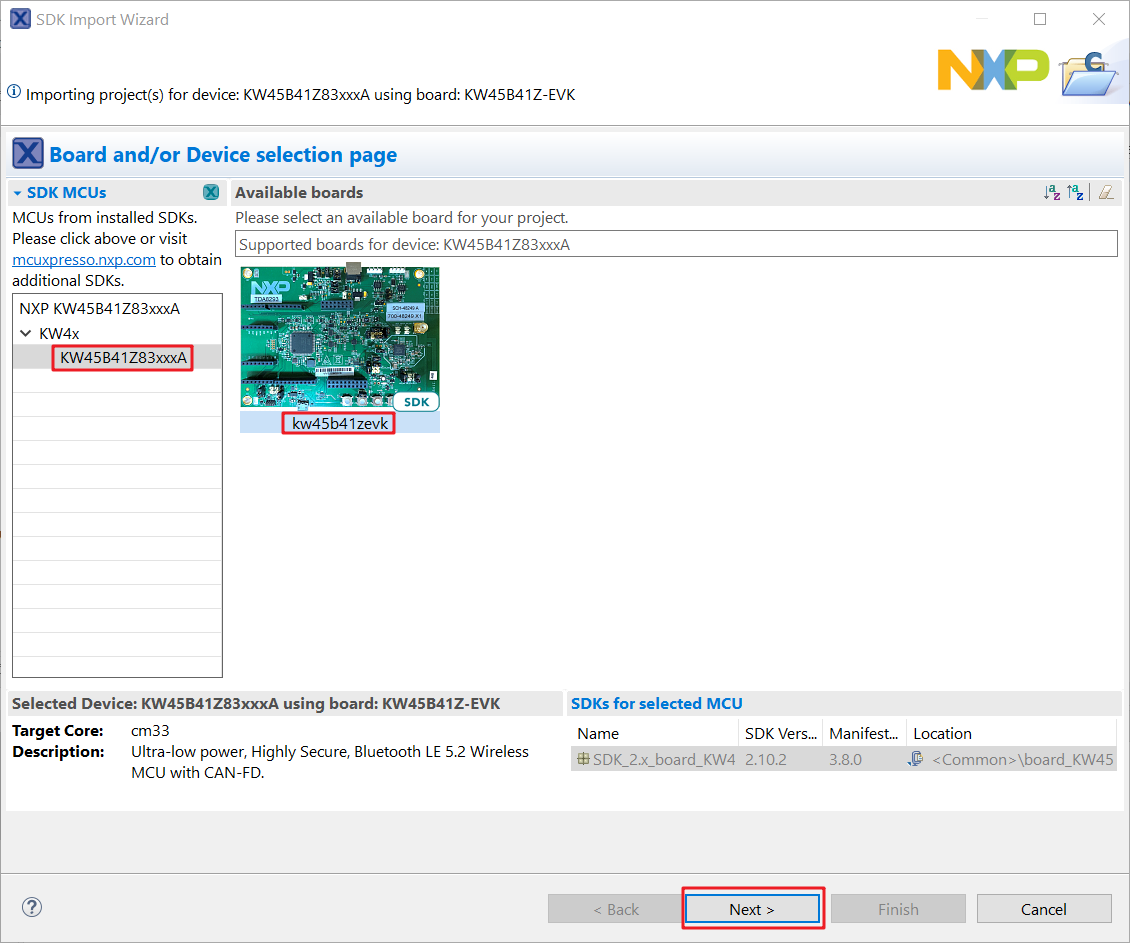
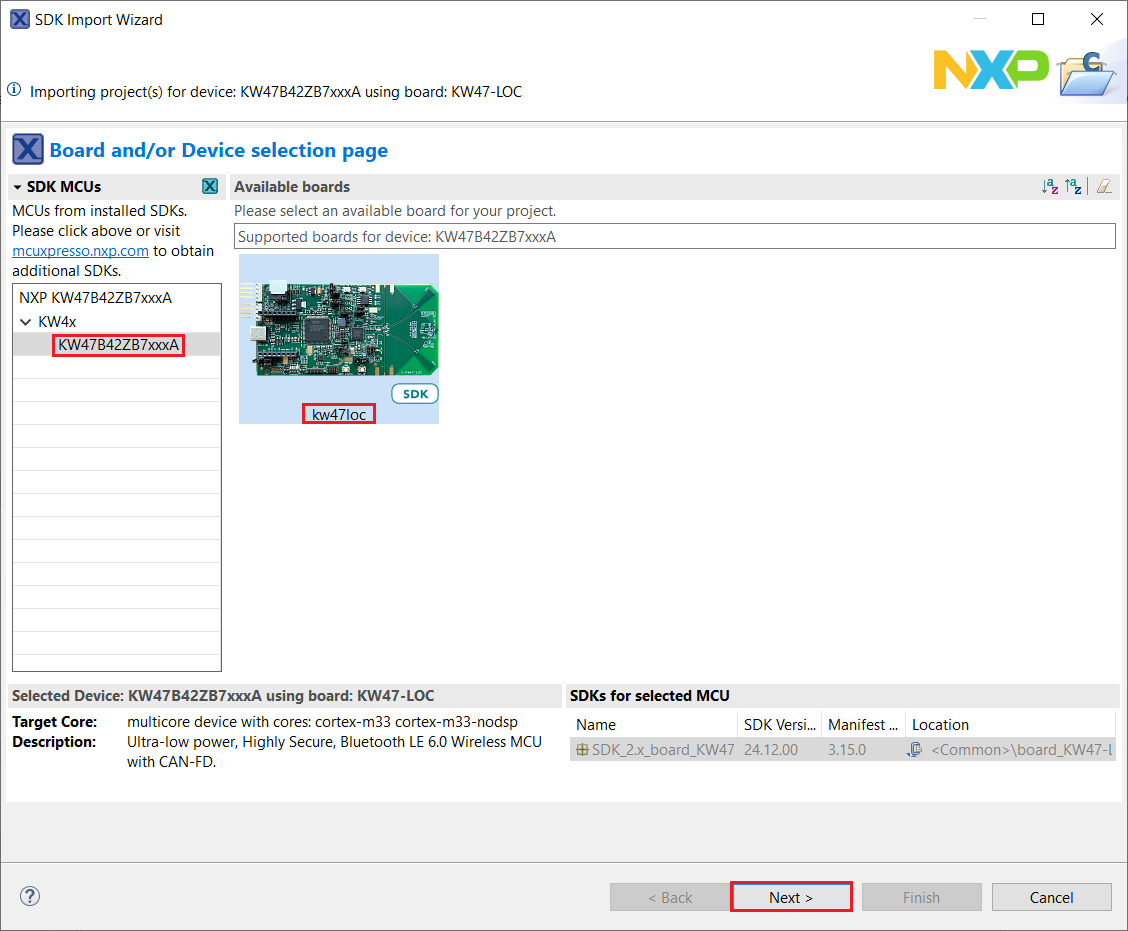
[MCUX-75004] Update the release notes and getting stated for connectivity boards
- Update the develpment tools version
- Update the SDK release version
- Update the pictures in the getting started

diff --git a/boards/mcxw72evk/releaseNotes/topics/overview.md b/boards/mcxw72evk/releaseNotes/topics/overview.md
@@ -1,6 +1,6 @@
 # Overview 
 
-These Release Notes are associated with MCUXpresso SDK 24.12.00-pvw2 supporting MCX W72 family devices and MCX-W72-EVK development boards. **This is an early adopter release provided as preview for development with pre-production devices.**
+These Release Notes are associated with MCUXpresso SDK 24.12.00 supporting MCX W72 family devices and MCX-W72-EVK development boards. **This is an early adopter release provided as preview for development with pre-production devices.**
 
 The MCUXpresso SDK is a comprehensive software enablement package designed to simplify and accelerate application development with Arm Cortex-M-based devices from NXP, including its general purpose, crossover and Bluetooth-enabled MCUs. MCUXpresso SW and Tools for DSC further extends the SDK support to current 32-bit Digital Signal Controllers. The MCUXpresso SDK includes production-grade software with integrated RTOS \(optional\), integrated enabling software technologies \(stacks and middleware\), reference software, and more.
 

diff --git a/boards/frdmmcxw72/releaseNote/topics/overview.md b/boards/frdmmcxw72/releaseNote/topics/overview.md
@@ -1,6 +1,6 @@
 # Overview
 
-These Release Notes are associated with MCUXpresso SDK 24.12.00-pvw2 supporting MCX W72 family devices and FRDM-MCXW72 development boards. **This is an early adopter release provided as preview for development with pre-production devices.**
+These Release Notes are associated with MCUXpresso SDK 24.12.00 supporting MCX W72 family devices and FRDM-MCXW72 development boards. **This is an early adopter release provided as preview for development with pre-production devices.**
 
 The MCUXpresso SDK is a comprehensive software enablement package designed to simplify and accelerate application development with Arm Cortex-M-based devices from NXP, including its general purpose, crossover and Bluetooth-enabled MCUs. MCUXpresso SW and Tools for DSC further extends the SDK support to current 32-bit Digital Signal Controllers. The MCUXpresso SDK includes production-grade software with integrated RTOS \(optional\), integrated enabling software technologies \(stacks and middleware\), reference software, and more.
 

diff --git a/boards/kw47evk/releaseNote/topics/overview.md b/boards/kw47evk/releaseNote/topics/overview.md
@@ -1,6 +1,6 @@
 # Overview
 
-These Release Notes are associated with MCUXpresso SDK 24.12.00-pvw2 supporting KW47 family devices and KW47-EVK development boards. **This is an early adopter release provided as preview for development with pre-production devices.**
+These Release Notes are associated with MCUXpresso SDK 24.12.00 supporting KW47 family devices and KW47-EVK development boards. **This is an early adopter release provided as preview for development with pre-production devices.**
 
 The MCUXpresso SDK is a comprehensive software enablement package designed to simplify and accelerate application development with Arm Cortex-M-based devices from NXP, including its general purpose, crossover and Bluetooth-enabled MCUs. MCUXpresso SW and Tools for DSC further extends the SDK support to current 32-bit Digital Signal Controllers. The MCUXpresso SDK includes production-grade software with integrated RTOS \(optional\), integrated enabling software technologies \(stacks and middleware\), reference software, and more.
 

diff --git a/boards/kw47loc/releaseNote/topics/overview.md b/boards/kw47loc/releaseNote/topics/overview.md
@@ -1,6 +1,6 @@
 # Overview
 
-These Release Notes are associated with MCUXpresso SDK 24.12.00-pvw2 supporting KW47 family devices and KW47-LOC development boards. **This is an early adopter release provided as preview for development with pre-production devices.**
+These Release Notes are associated with MCUXpresso SDK 24.12.00 supporting KW47 family devices and KW47-LOC development boards. **This is an early adopter release provided as preview for development with pre-production devices.**
 
 The MCUXpresso SDK is a comprehensive software enablement package designed to simplify and accelerate application development with Arm Cortex-M-based devices from NXP, including its general purpose, crossover and Bluetooth-enabled MCUs. MCUXpresso SW and Tools for DSC further extends the SDK support to current 32-bit Digital Signal Controllers. The MCUXpresso SDK includes production-grade software with integrated RTOS \(optional\), integrated enabling software technologies \(stacks and middleware\), reference software, and more.
 

diff --git a/boards/kw47evk/releaseNote/topics/what_is_new.md b/boards/kw47evk/releaseNote/topics/what_is_new.md
@@ -1,8 +1,8 @@
 # What is new 
 
-MCUXpresso SDK version 24.12.00-pvw2 is an early adopter release provided as preview for early development.
+MCUXpresso SDK version 24.12.00 is an early adopter release provided as preview for early development.
 
-The following changes have been implemented compared to the previous SDK release version \(24.12.00-pvw1\).
+The following changes have been implemented compared to the previous SDK release version \(24.12.00-pvw2\).
 
 -   **Bluetooth LE host stack and applications:**
     -   Added Bluetooth LE sample applications: `ble_shell`, `w_uart`.

diff --git a/boards/kw47loc/releaseNote/topics/what_is_new.md b/boards/kw47loc/releaseNote/topics/what_is_new.md
@@ -1,8 +1,8 @@
 # What is new 
 
-MCUXpresso SDK version 24.12.00-pvw2 is an early adopter release provided as preview for early development.
+MCUXpresso SDK version 24.12.00 is an early adopter release provided as preview for early development.
 
-The following changes have been implemented compared to the previous SDK release version \(24.12.00-pvw1\).
+The following changes have been implemented compared to the previous SDK release version \(24.12.00-pvw2\).
 
 -   **Bluetooth LE host stack and applications:**
     -   Added Bluetooth LE sample applications: `ble_shell`, `w_uart`.

diff --git a/boards/mcxw72evk/releaseNotes/topics/what_is_new.md b/boards/mcxw72evk/releaseNotes/topics/what_is_new.md
@@ -1,8 +1,8 @@
 # What is new 
 
-MCUXpresso SDK version 24.12.00-pvw2 is an early adopter release provided as preview for early development.
+MCUXpresso SDK version 24.12.00 is an early adopter release provided as preview for early development.
 
-The following changes have been implemented compared to the previous SDK release version \(24.12.00-pvw1\).
+The following changes have been implemented compared to the previous SDK release version \(24.12.00-pvw2\).
 
 -   **Bluetooth LE host stack and applications**
     -   Added Bluetooth LE sample applications: `ble_shell`, `w_uart`.

diff --git a/boards/frdmmcxw72/releaseNote/topics/what_is_new.md b/boards/frdmmcxw72/releaseNote/topics/what_is_new.md
@@ -1,8 +1,8 @@
 # What is new
 
-MCUXpresso SDK version 24.12.00-pvw2 is an early adopter release provided as preview for early development.
+MCUXpresso SDK version 24.12.00 is an early adopter release provided as preview for early development.
 
-The following changes have been implemented compared to the previous SDK release version \(24.12.00-pvw1\).
+The following changes have been implemented compared to the previous SDK release version \(24.12.00-pvw2\).
 
 -   **Bluetooth LE host stack and applications**
     -   Added Bluetooth LE sample applications: `ble_shell`, `w_uart`.

diff --git a/boards/kw47evk/releaseNote/topics/development_tools.md b/boards/kw47evk/releaseNote/topics/development_tools.md
@@ -1,8 +1,8 @@
 # Development tools 
 
-The MCUXpresso SDK version 24.12.00-pvw2 was compiled and tested using these development tools:
+The MCUXpresso SDK version 24.12.00 was compiled and tested using these development tools:
 
--   IAR Embedded Workbench for Arm version 9.60.2
--   MCUXpresso IDE 24.9.25 \(linkserver 24.10.22\)
+-   IAR Embedded Workbench for Arm version 9.60.3
+-   MCUXpresso IDE 24.12.00
 -   GCC Arm Embedded Toolchain 13.2.1
 

diff --git a/boards/kw47loc/releaseNote/topics/development_tools.md b/boards/kw47loc/releaseNote/topics/development_tools.md
@@ -1,8 +1,8 @@
 # Development tools 
 
-The MCUXpresso SDK version 24.12.00-pvw2 was compiled and tested using these development tools:
+The MCUXpresso SDK version 24.12.00 was compiled and tested using these development tools:
 
--   IAR Embedded Workbench for Arm version 9.60.2
--   MCUXpresso IDE 24.9.25 \(linkserver 24.10.22\)
+-   IAR Embedded Workbench for Arm version 9.60.3
+-   MCUXpresso IDE 24.12.00
 -   GCC Arm Embedded Toolchain 13.2.1
 

diff --git a/boards/mcxw72evk/releaseNotes/topics/development_tools.md b/boards/mcxw72evk/releaseNotes/topics/development_tools.md
@@ -1,7 +1,8 @@
 # Development tools 
-The MCUXpresso SDK version 24.12.00-pvw2 was compiled and tested using these development tools:
 
--   IAR Embedded Workbench for Arm version 9.60.2
--   MCUXpresso IDE 24.9.25 \(linkserver 24.10.22\)
+The MCUXpresso SDK version 24.12.00 was compiled and tested using these development tools:
+
+-   IAR Embedded Workbench for Arm version 9.60.3
+-   MCUXpresso IDE 24.12.00
 -   GCC Arm Embedded Toolchain 13.2.1
 

diff --git a/boards/frdmmcxw72/releaseNote/topics/development_tools.md b/boards/frdmmcxw72/releaseNote/topics/development_tools.md
@@ -1,7 +1,8 @@
 # Development tools
-The MCUXpresso SDK version 24.12.00-pvw2 was compiled and tested using these development tools:
 
--   IAR Embedded Workbench for Arm version 9.60.2
--   MCUXpresso IDE 24.9.25 \(linkserver 24.10.22\)
+The MCUXpresso SDK version 24.12.00 was compiled and tested using these development tools:
+
+-   IAR Embedded Workbench for Arm version 9.60.3
+-   MCUXpresso IDE 24.12.00
 -   GCC Arm Embedded Toolchain 13.2.1
 
